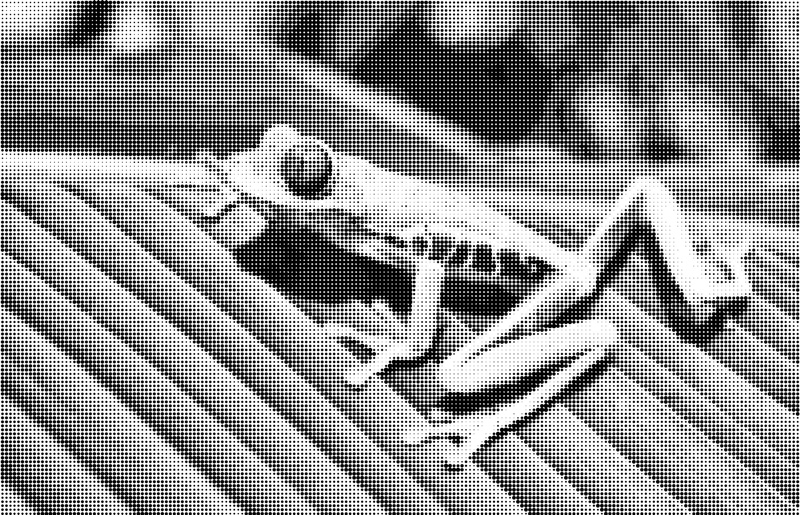
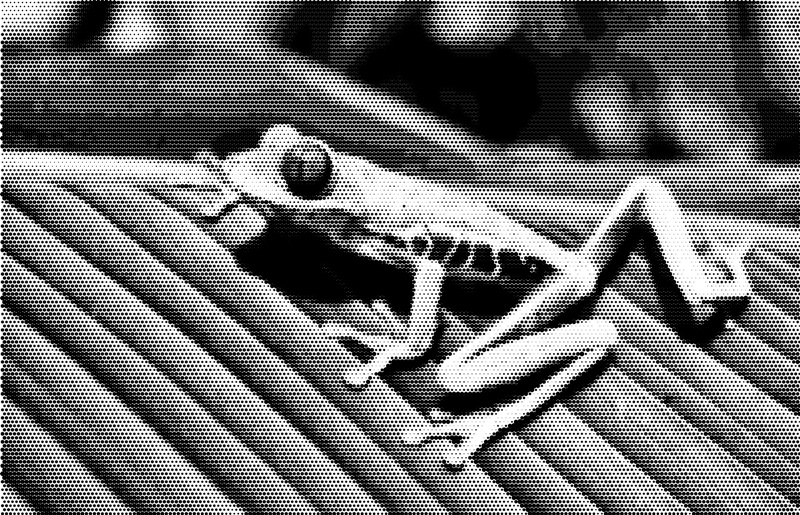
Dots algorithm minor update

diff --git a/code/dots.py b/code/dots.py
@@ -6,7 +6,7 @@ from utils import ProgressReport, fill_image
 
 def dots(source_img):
     step = 20
-    max_radius = 12
+    max_radius = 14
     background_color = [255, 255, 255]
     circle_color = [0, 0, 0]
 
@@ -19,7 +19,7 @@ def dots(source_img):
     status_print = ProgressReport(size_y, 'dots effect')
 
     for y in range(0, size_y, step):
-        for x in range(0, size_x, step):
+        for x in range(int(((y/step)%2)*step/2), size_x, step):
             rgb_avg = int(np.mean(source_img[y:y+step, x:x+step, 0:2]))
             radius = int((( 255.0 - rgb_avg) / 255.0) * max_radius)
             xcoord = int((x + step/2.0))
